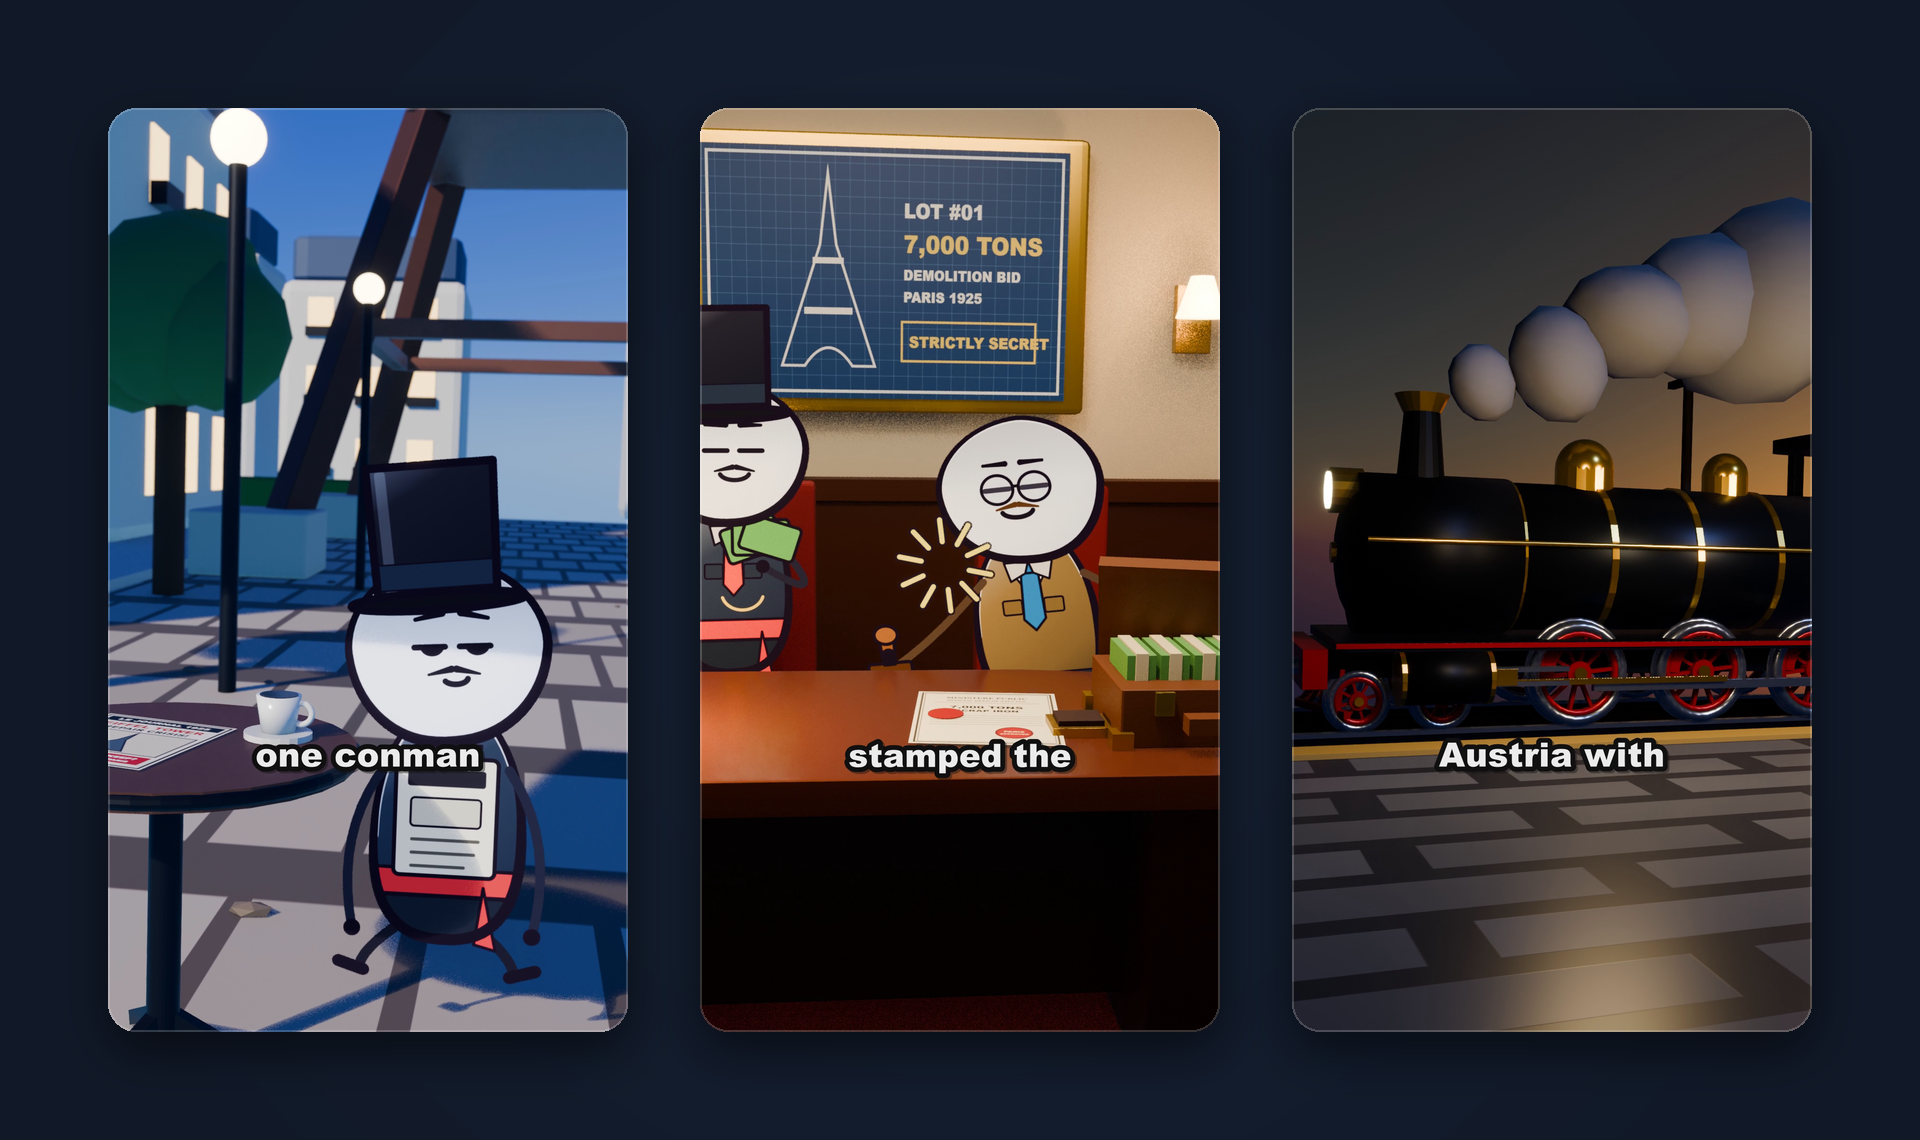
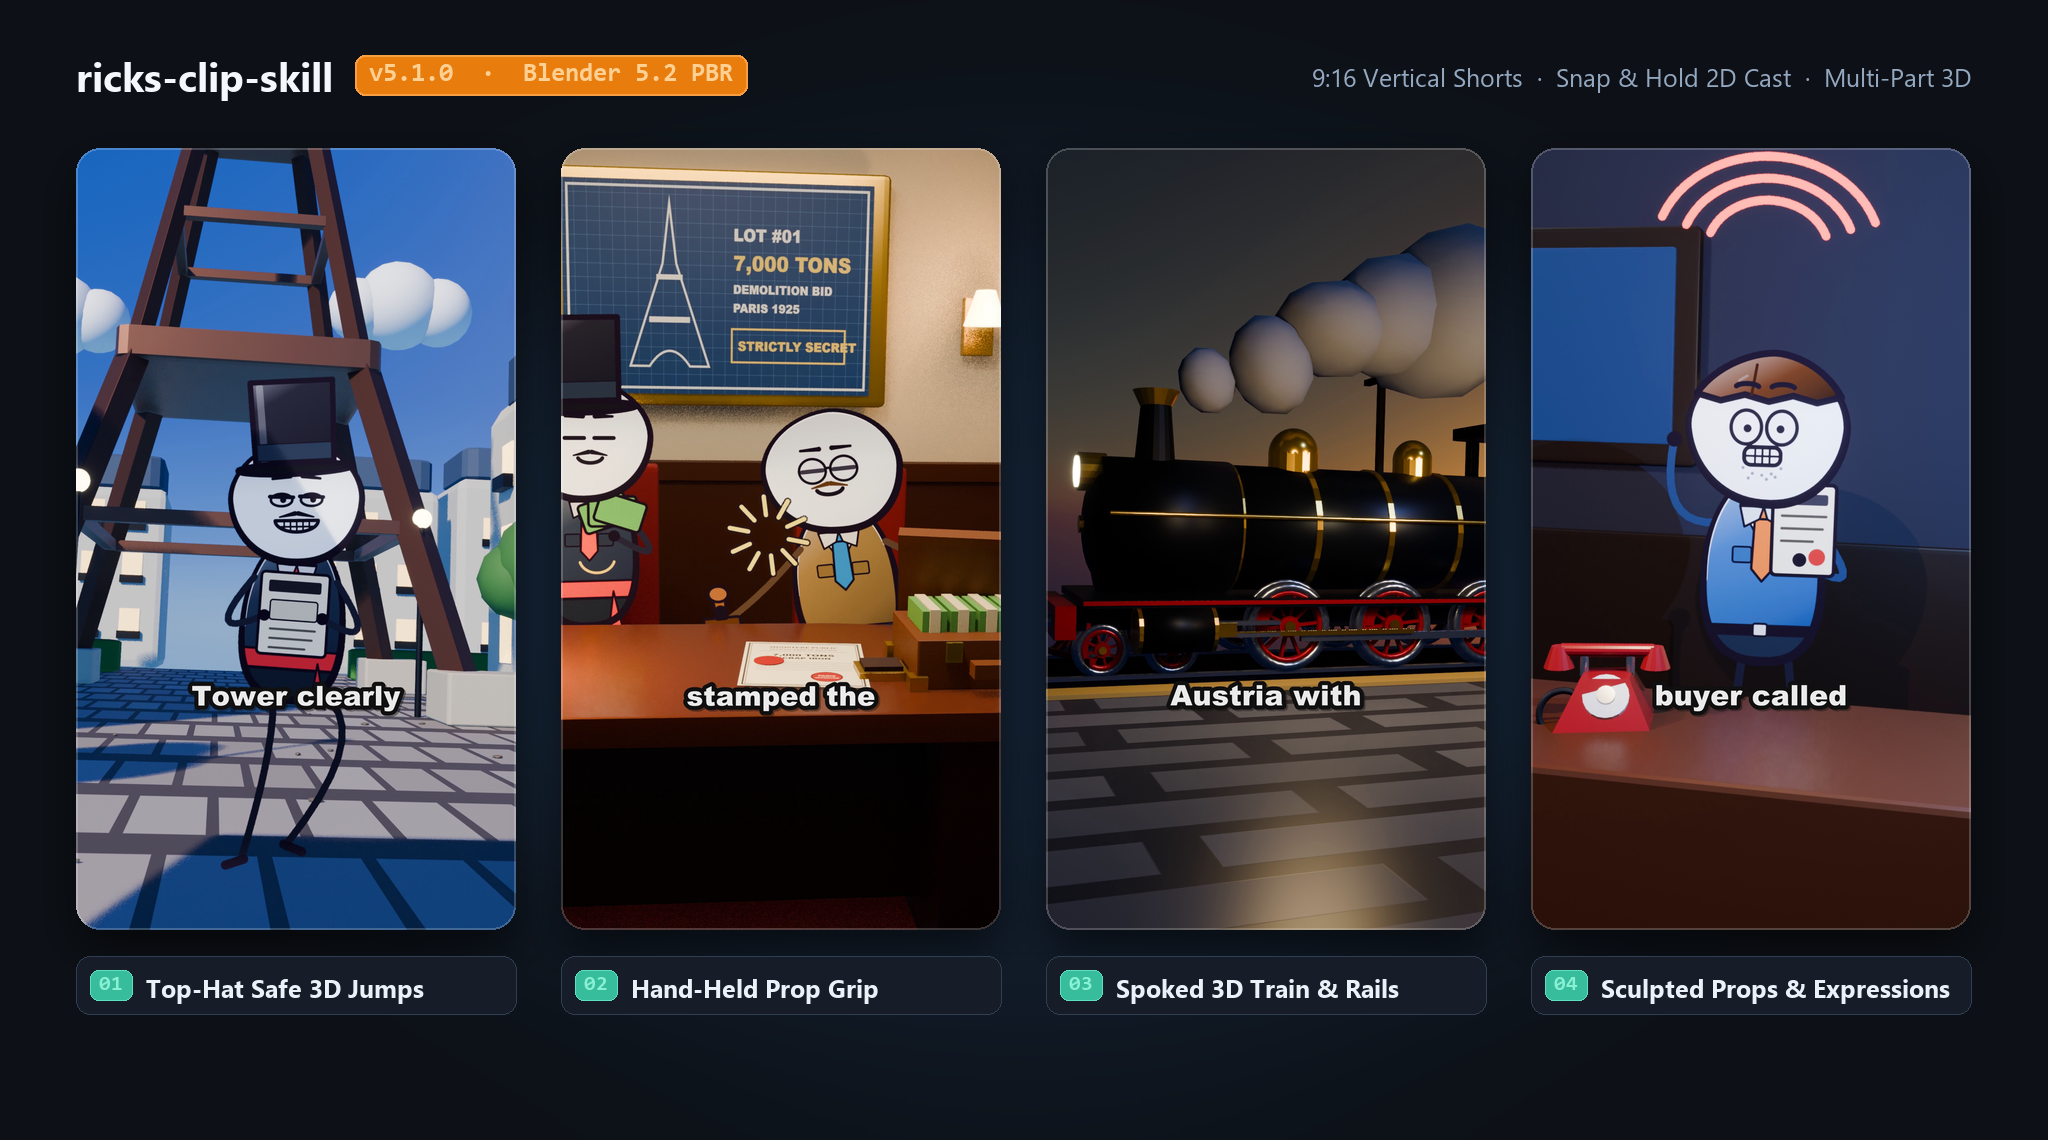
docs: add v5.1.0 changelog, release badge, and 4-panel Blender 5.2 showcase

diff --git a/README.md b/README.md
@@ -1,26 +1,28 @@
 # ricks-clip-skill
 
-**Agent skill and hybrid Blender 5.2 GPU + Remotion pipeline for 9:16 vertical animated story Shorts (`v5.1`).**
+**Agent skill and hybrid Blender 5.2 GPU + Remotion pipeline for 9:16 vertical animated story Shorts (`v5.1.0`).**
 
+[![Version](https://img.shields.io/badge/Version-v5.1.0-E87D0D?style=flat-square)](https://github.com/JosuaZxz/ricks-clip-skill/releases/tag/v5.1.0)
 [![Blender](https://img.shields.io/badge/Blender-5.2%20GPU-E87D0D?style=flat-square)](https://www.blender.org/)
 [![Remotion](https://img.shields.io/badge/Remotion-4.x-0B84F3?style=flat-square)](https://www.remotion.dev/)
 [![Three.js](https://img.shields.io/badge/Three.js-R3F-000000?style=flat-square)](https://threejs.org/)
-[![Audio](https://img.shields.io/badge/Loudness--15.0%20LUFS-FF6B35?style=flat-square)](#audio--dsp-pipeline)
+[![Audio](https://img.shields.io/badge/Loudness--15.0%20LUFS-FF6B35?style=flat-square)](#)
 [![License: MIT](https://img.shields.io/badge/License-MIT-2EA44F?style=flat-square)](./LICENSE)
 
-![Rendered 9:16 Showcase Frames](./docs/showcase.png)
+![Rendered 9:16 Showcase Frames v5.1.0](./docs/showcase-v5.1.png)
 
-`ricks-clip-skill` packages a 2D-cards-in-3D production pipeline that combines outline-FREE multi-part PBR Blender 5.2 EEVEE sets, 30fps on-ones bean-head sprites with bold ink contours, 40-check plan validation, Fish Audio `s2-pro` + Whisper word alignment, crisp pure white bold libass captions, and mastered SFX into self-contained YouTube Shorts (`1080x1920`, `30 fps`, `45-68 s`).
+`ricks-clip-skill` packages a 2D-cards-in-3D production pipeline that pairs outline-FREE multi-part PBR Blender 5.2 EEVEE worlds, 30fps on-ones bean-head sprites with bold ink contours, 40-check plan validation, Fish Audio `s2-pro` + Whisper word alignment, crisp pure white bold libass captions, and mastered SFX into self-contained YouTube Shorts (`1080x1920`, `30 fps`, `45-68 s`).
 
 ---
 
-## What Changed in v5.1
+## Version History & What Changed (`v5.1.0`)
 
-- **Stage-2 Blender 5.2 GPU Final Renderer (`blender_render.py`):** Outline-FREE clean PBR 3D worlds across 10-14 non-overlapping Y corridors (`hide_render` per active shot), stylized sky ramps (`day`, `golden`, `interior`, `night`), cast shadows on 2D actor planes (`emit_mix = 0.50`), thin-lens DOF, `Fog Glow`, and Stage-1 Three.js/Remotion kept purely for rapid blocking.
-- **Multi-Part `bmesh` 3D Props & Vehicles:** Guides and examples for annular open-spoked wheels mounted on unrotated XZ Empty pivots synced to piston and coupling rods, beveled I-beam steel rails with wooden sleepers and ballast, rotary dial phones, and desk hardware instead of primitive discs or plain slabs.
-- **Top-Hat Headroom & 3-Phase Grounded Jumps (`toon.ts` + `cards.ts`):** Exports actor cards at `900x1680` (`designW: 600, designH: 1120, soleY: 1080, heightM: 2.15`) so high hats never clip at the PNG top border, paired with `jumpState` (6f knee crouch anticipation, 3D `pos[1]` parabola with folded airborne knees, and 7f landing absorb), grounded `"run"` feet, and snap-and-hold pose discipline without nonstop idle wobble.
-- **Facing-Aligned Single-Hand Props (`sSide`):** Active `"stamp"` slams route through a dedicated `facing`-aware arm override gripping the stamp inside the hand rather than floating unattached 3D props over bare hands.
-- **40-Check Plan Validator & Pure White Captions:** `validate_plan.py` verifies `public/plan.json` + `words.json` before rendering, and `composite_stage2.mjs` burns centered `98px` `Arial Black` white captions (`10px` black stroke, `MarginV=530`, `--yellow-emphasis` opt-in).
+| Version | Focus | Key Upgrades |
+| :--- | :--- | :--- |
+| **`v5.1.0`** *(Current)* | Realism, Physics & Multi-Part 3D | Tall top-hat safe cards (`900x1680` / `designH: 1120` / `soleY: 1080`), 3-phase `jumpState` (6f knee crouch -> 3D `pos[1]` arc -> 7f landing absorb), grounded `"run"` feet, snap-and-hold acting without idle wobble, facing-aligned hand props (`sSide` stamp grip), and `bmesh` open-spoked wheels on unrotated XZ pivots synced with rods + I-beam tracks + sculpted rotary phones. |
+| **`v5.0.0`** | Outline-FREE Blender PBR | Moved final rendering from Three.js toon cells to outline-FREE PBR Blender 5.2 EEVEE across 10-14 non-overlapping Y corridors, stylized sky ramps, `Fog Glow`, pure white `98px` libass captions, and `40/40` `validate_plan.py`. |
+| **`v2.1.0`** | Kinetic Cast & Blender Stage-2 | Introduced kinetic 30fps batched PNG export (`export-cards.mjs`), Blender Stage-2 compositing (`composite_stage2.mjs`), and rubber-hose character controls. |
+| **`v1.0.0`** | Initial Release | Stage-1 Three.js two-tone cel + `InkPass`, Remotion renderer, Fish Audio `s2-pro`, Whisper forced alignment, and `-15.0 LUFS` DSP mastering. |
 
 ---
 
@@ -123,7 +125,8 @@ ricks-clip-skill/
 ├── LICENSE
 ├── .gitignore
 ├── docs/
-│   └── showcase.png                  # Rendered Stage-2 Blender 9:16 showcase
+│   ├── showcase-v5.1.png             # Latest 4-panel v5.1.0 Blender 5.2 showcase
+│   └── showcase.png                  # Synced latest preview image
 └── skills/
     ├── ricks-clips-animation/
     │   ├── SKILL.md                  # End-to-end v5.1 execution workflow
